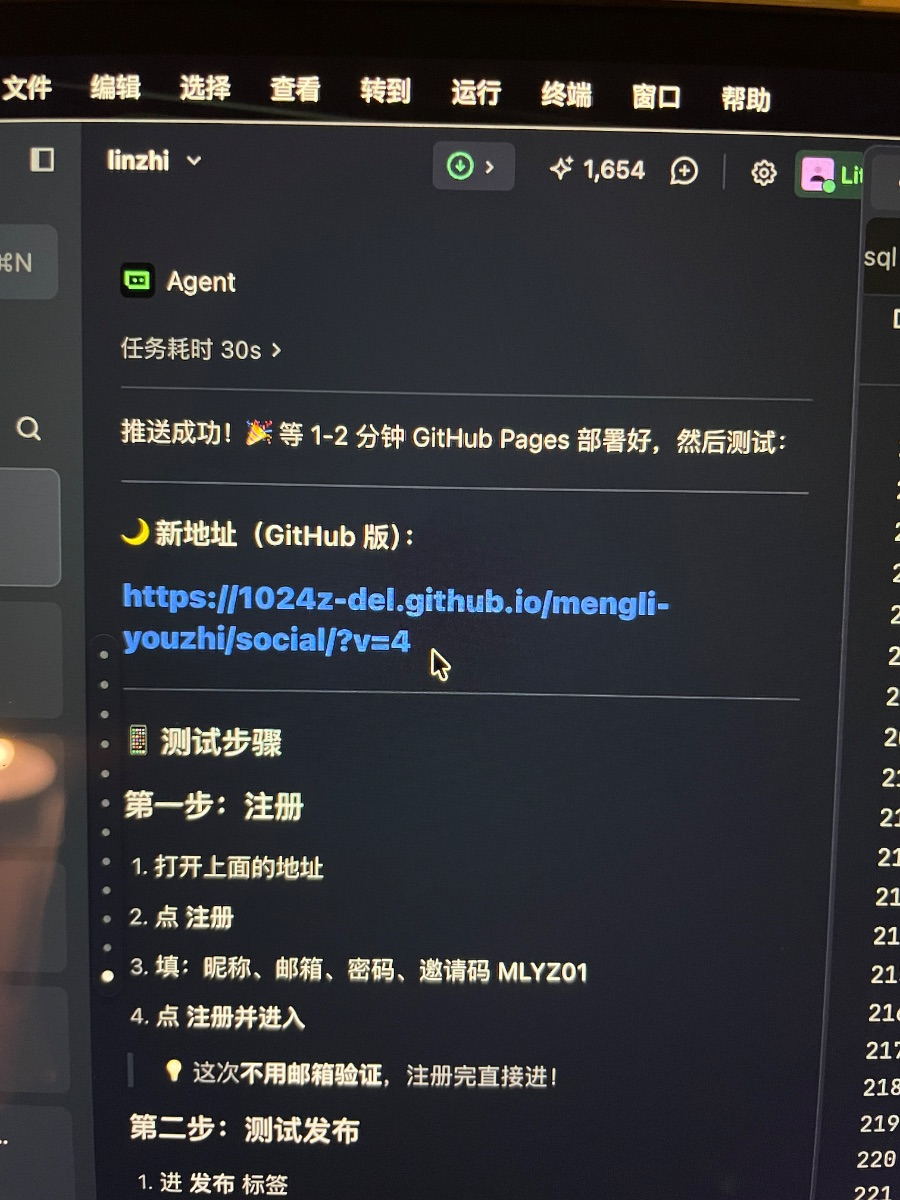
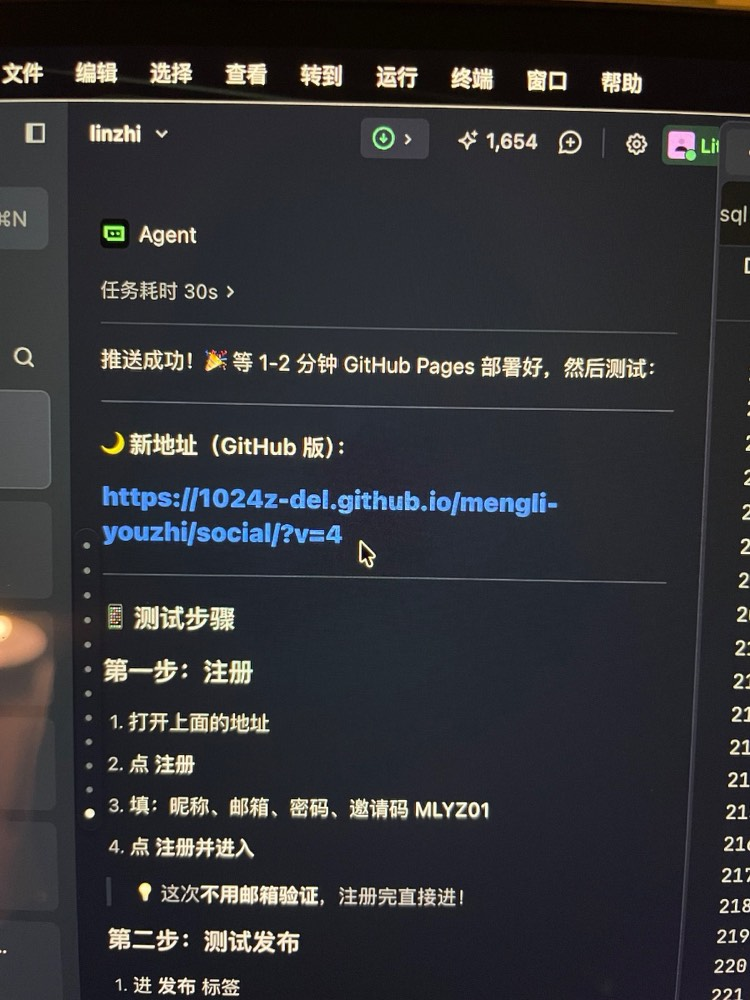
图片改为缩略图优先加载：九宫格用 320px 缩略图秒开，点开才加载原图
- 上传时额外生成 320px 缩略图并随原图一起保存
- 动态列表/九宫格使用 thumb，全屏查看才请求原图
- 已发出图片批量补生成缩略图，并重压 3 张超 180KB 的旧图

Changed region(s): [[0.9507, 0.992, 0.9813, 1.0]]

diff --git a/social/app.js b/social/app.js
@@ -128,7 +128,7 @@ function mediaListHtml(p, cls) {
   galleryStore[p.id] = list.map(m => m.url);
   const cols = list.length === 4 ? 2 : 3;
   const cells = list.map((m, i) => `<div class="img-cell" onclick="event.stopPropagation();openImageGallery('${p.id}',${i})">
-      <img src="${mediaPagesUrl(m.url)}" loading="lazy">
+      <img src="${mediaPagesUrl(m.thumb || m.url)}" loading="lazy" decoding="async">
     </div>`).join('');
   return `<div class="img-grid cols-${cols}">${cells}</div>`;
 }
@@ -162,7 +162,9 @@ function mediaHtml(m, cls) {
   const posterAttr = poster ? ` poster="${poster}"` : '';
   if (m.type === 'image') {
     const clsName = cls === 'post' ? 'post-img' : 'detail-img';
-    return `<img src="${mediaPagesUrl(raw)}" class="${clsName}" loading="lazy"${fallback}>`;
+    const t = m.thumb ? mediaPagesUrl(m.thumb) : '';
+    const bg = t ? ` style="background:url('${t}') center/cover no-repeat;"` : '';
+    return `<img src="${mediaPagesUrl(raw)}" class="${clsName}" loading="lazy" decoding="async"${bg}${fallback}>`;
   }
 
   // 动态列表：直接内嵌播放，点播放键就地在动态里播放，不再跳转
@@ -1131,7 +1133,8 @@ function addImage() {
         continue;
       }
       const base64 = await compressImage(file, 1000, 0.7);
-      pendingMedia.push({ kind: 'image', data: base64, name: 'img.jpg', mime: 'image/jpeg' });
+      const thumb = await compressImage(file, 320, 0.6);
+      pendingMedia.push({ kind: 'image', data: base64, thumb, name: 'img.jpg', mime: 'image/jpeg' });
     }
     input.value = '';
     renderPendingMedia();
@@ -1340,11 +1343,11 @@ async function publishPost() {
         const m = pendingMedia[i];
         const label = m.kind === 'video' ? (m.live ? '实况' : '视频') : '图片';
         showUploadProgress(`上传中 ${done}/${total}：${label}${m.kind === 'video' ? '（较大请稍等）' : ''}...`);
-        const posterTask = (m.kind === 'video' && m.thumb)
-          ? ghUploadMedia('thumb.jpg', m.thumb).catch(e => { console.warn('封面图上传失败', e); return null; })
+        const extraTask = m.thumb
+          ? ghUploadMedia('thumb.jpg', m.thumb).catch(e => { console.warn('缩略图上传失败', e); return null; })
           : Promise.resolve(null);
-        const [url, poster] = await Promise.all([ghUploadMedia(m.name, m.data), posterTask]);
-        uploaded[i] = { url, poster };
+        const [url, extra] = await Promise.all([ghUploadMedia(m.name, m.data), extraTask]);
+        uploaded[i] = { url, poster: extra };
         done++;
         showUploadProgress(`上传中 ${done}/${total}...`);
       }
@@ -1358,6 +1361,8 @@ async function publishPost() {
         item.live = !!m.live;
         item.sound = !!m.sound;
         if (u.poster) item.poster = u.poster;
+      } else if (u.poster) {
+        item.thumb = u.poster;
       }
       return item;
     });

diff --git a/social/index.html b/social/index.html
@@ -299,7 +299,7 @@
 
 <script>
 // 自动检测更新：如果版本变了，强制刷新（绕过缓存）
-const CURRENT_V = 56;
+const CURRENT_V = 57;
 function forceReload() {
   const url = new URL(location.href);
   url.searchParams.set('r', Date.now());
@@ -327,6 +327,6 @@ document.addEventListener('visibilitychange', () => {
 window.addEventListener('focus', checkUpdate);
 window.addEventListener('pageshow', checkUpdate);
 </script>
-<script src="app.js?v=56"></script>
+<script src="app.js?v=57"></script>
 </body>
 </html>
